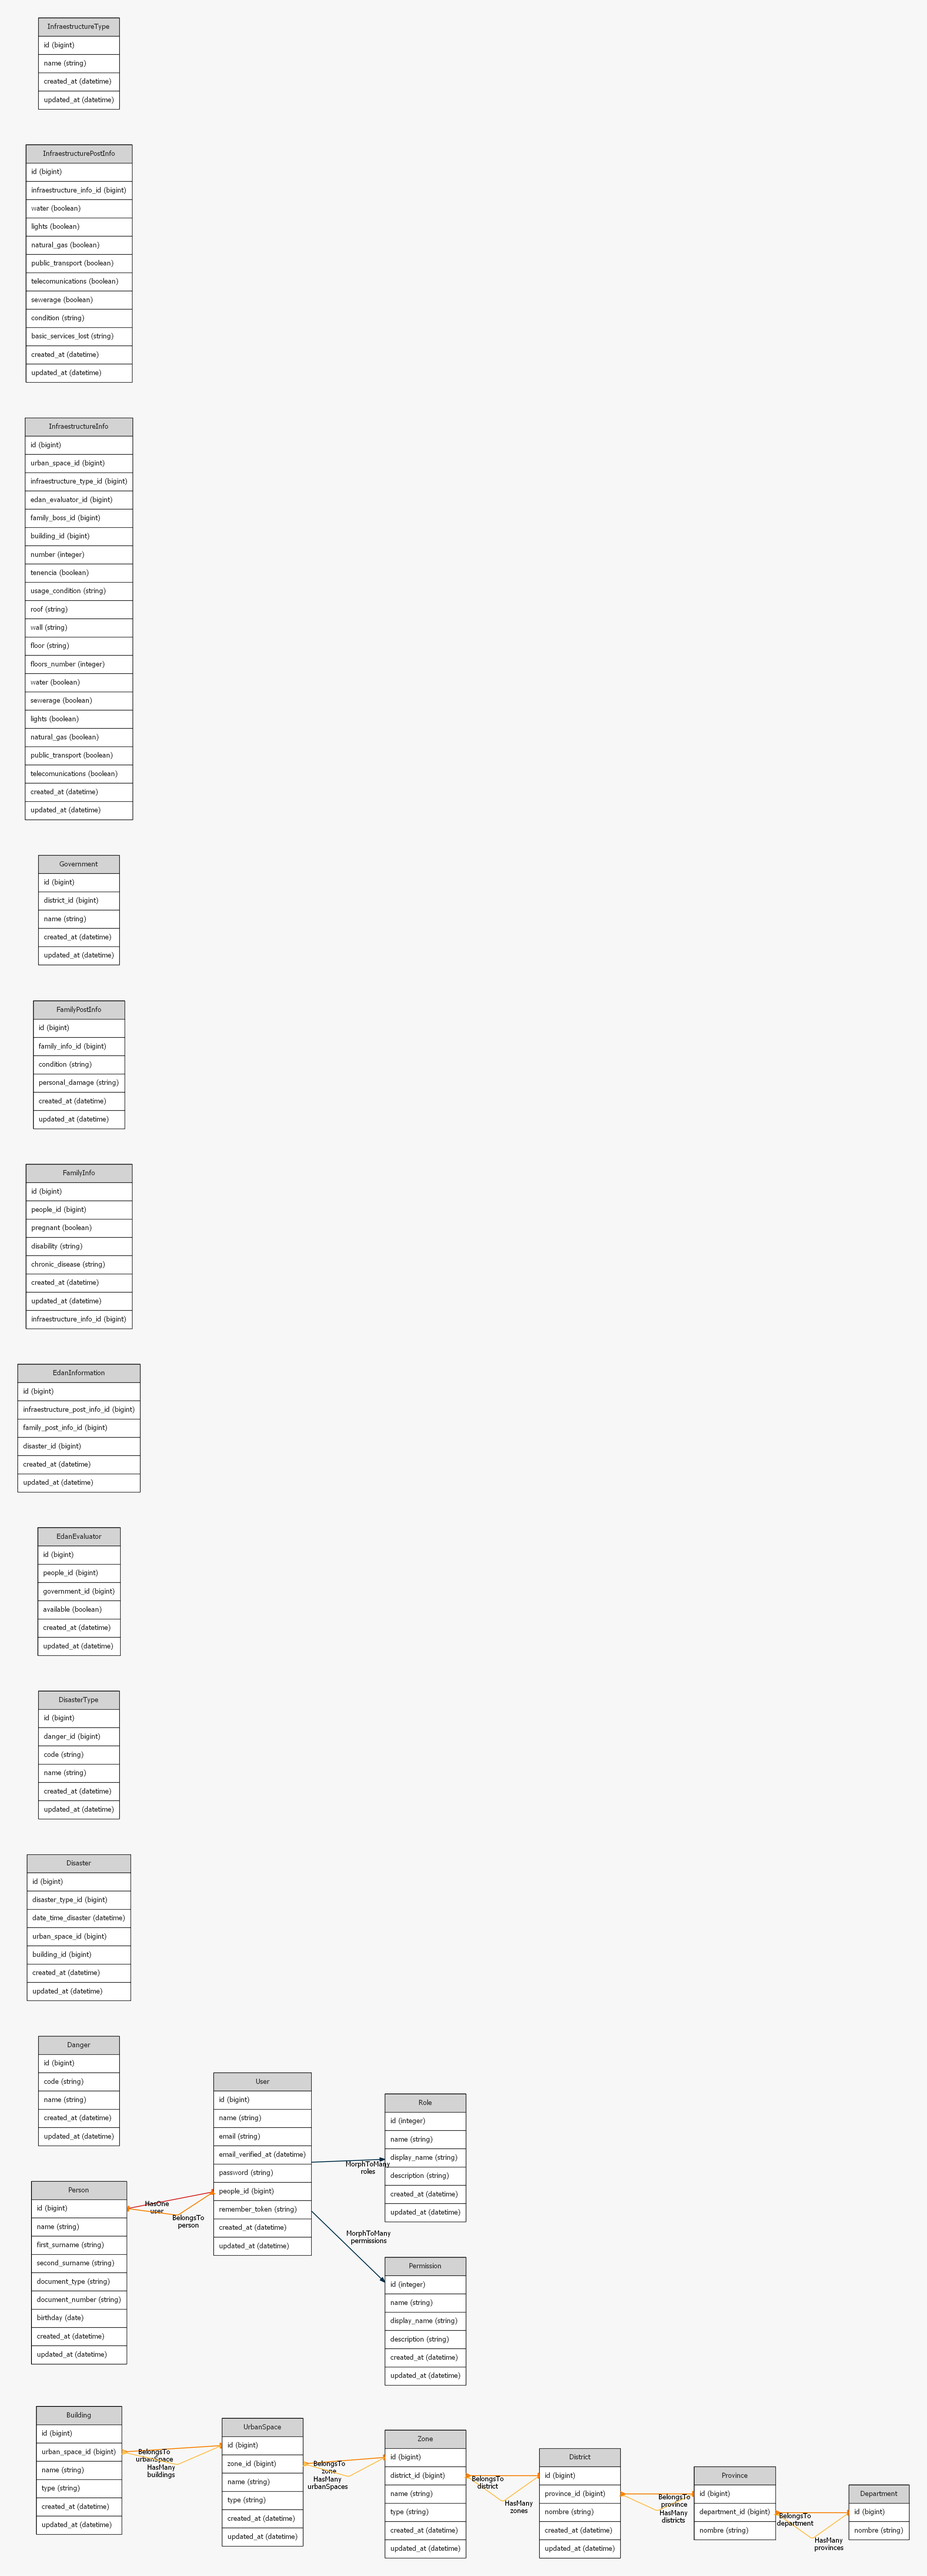
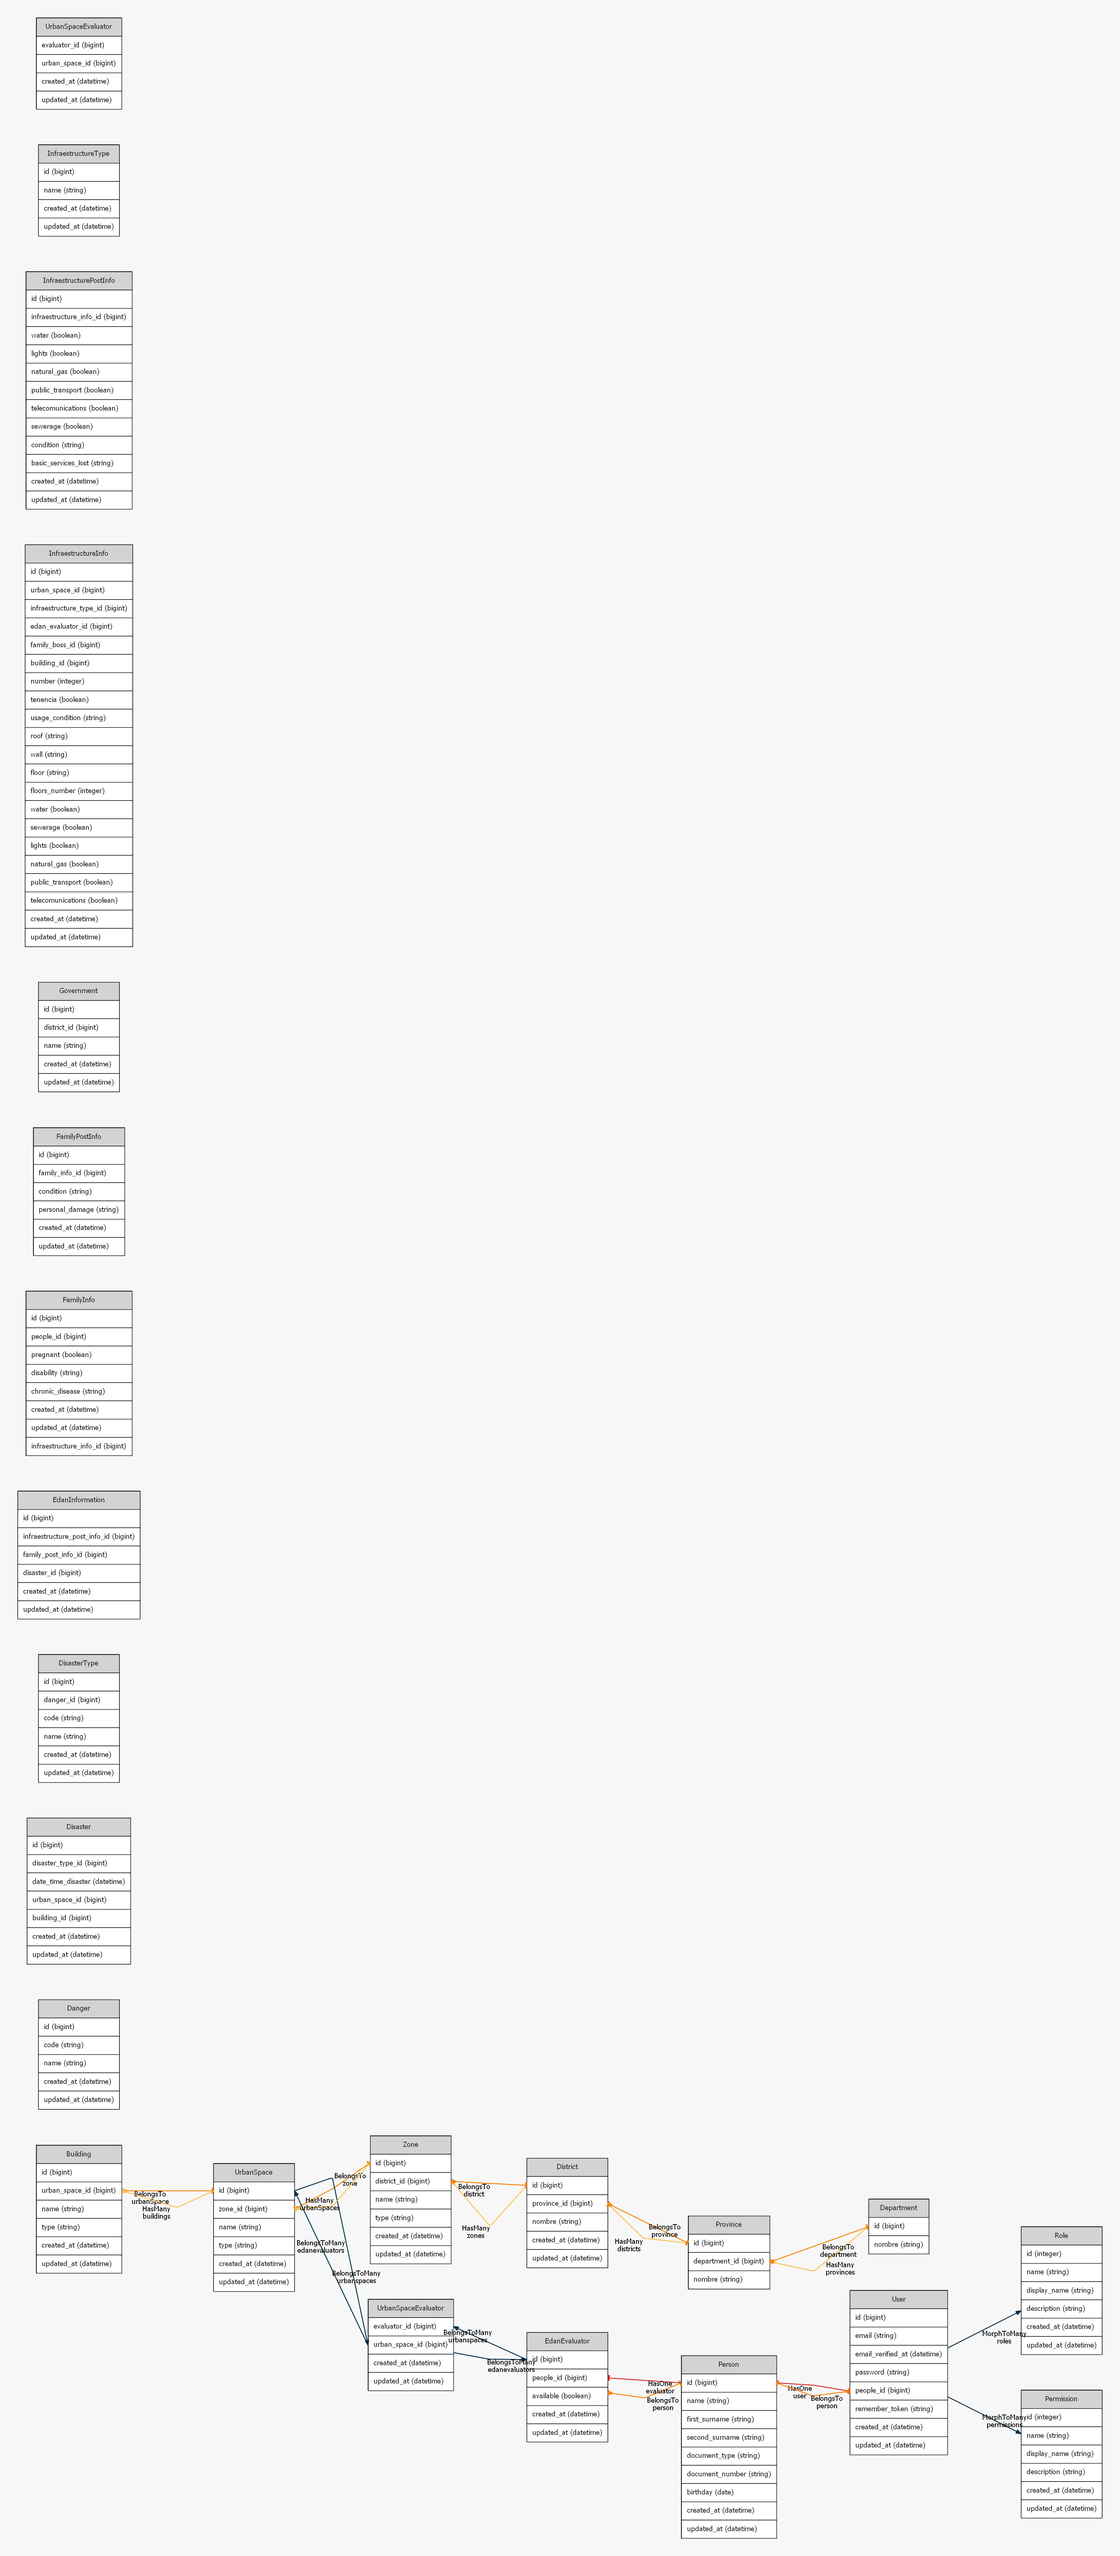
evaluators management

diff --git a/resources/views/admin/evaluators/edit.blade.php b/resources/views/admin/evaluators/edit.blade.php
@@ -1,0 +1,167 @@
+@extends('admin.layout')
+@section('admin')
+    <div class="col-md-12">
+        <div class="card">
+            <div class="card-header">
+                Editar espacios urbanos del evaluador: {{$person->name}} {{$person->first_surname}} {{$person->second_surname}}
+            </div>
+            <div class="card-body">
+                <div class="row">
+                    <h5 class="col-md-8">Selecciona la ubicación del evaluador que desea asignarle</h5>
+                    <div class="col-md-4">
+                        <a href="{{route('admin.evaluators.index')}}" class="btn btn-secondary float-right btn-sm">Atras</a>
+                    </div>
+
+
+                </div>
+                <form action="{{route('admin.evaluators.update',$person)}}" method="post">
+                    @csrf
+                    <div class="row">
+                        <div class="form-group col-md-2" align="center">
+                            <label for="department">Departamento</label>
+                            <select id="department" name="department" class="form-control" required></select>
+                            <small class="text-danger">{{$errors->first('department')}}</small>
+                        </div>
+                        <div class="form-group col-md-2" align="center">
+                            <label for="province">Provincia</label>
+                            <select id="province" name="province" class="form-control" disabled required></select>
+                            <small class="text-danger">{{$errors->first('province')}}</small>
+                        </div>
+                        <div class="form-group col-md-2" align="center">
+                            <label for="district_id">Distrito</label>
+                            <select id="district_id" name="district_id" class="form-control" disabled required></select>
+                            <small class="text-danger">{{$errors->first('district_id')}}</small>
+                        </div>
+                        <div class="form-group col-md-2" align="center">
+                            <label for="zone">Zona</label>
+                            <select id="zone" name="zone" class="form-control" disabled required></select>
+                            <small class="text-danger">{{$errors->first('zone')}}</small>
+                        </div>
+                        <div class="form-group col-md-2" align="center">
+                            <label for="urbanspace">Espacio urbano</label>
+                            <select id="urbanspace" name="urbanspace" class="form-control" disabled required></select>
+                            <small class="text-danger">{{$errors->first('urbanspace')}}</small>
+                        </div>
+                        <div class="form-group col-md-2"  align="center">
+                            <label>&nbsp;</label>
+                            <button type="submit" class="form-control btn btn-primary btn-block">Asignar</button>
+                        </div>
+                    </div>
+                </form>
+
+                <hr>
+                <h5>Espacios urbanos asignados</h5>
+                <table class="table table-bordered" id="evaluators_table" style="width: 100%">
+                    <thead>
+                    <tr>
+                        <th>Distrito</th>
+                        <th>Zona</th>
+                        <th>Espacio urbano</th>
+                        <th style="width: 1%">Acciones</th>
+                    </tr>
+                    </thead>
+                    <tbody>
+                    @foreach($person->evaluator->urbanspaces as $urbanspace)
+                        <tr>
+                            <td>{{$urbanspace->zone->district->nombre}}</td>
+                            <td>{{$urbanspace->zone->type}} {{$urbanspace->zone->name}}</td>
+                            <td>{{$urbanspace->type}} {{$urbanspace->name}}</td>
+                            <td>
+                                <form action="{{route('admin.evaluators.delete',['person'=>$person, 'urbanspace'=> $urbanspace])}}" method="post">
+                                    <input type="hidden" name="_method" value="DELETE">
+                                    <input type="hidden" name="_token" value="{{ csrf_token() }}">
+                                    @csrf
+                                    <input type="submit" class="btn btn-danger btn-sm" value="Eliminar">
+                                </form>
+                        </tr>
+                        @endforeach
+                    </tbody>
+                </table>
+            </div>
+        </div>
+    </div>
+@endsection
+@section('style')
+    <link href="{{asset('css/jquery.dataTables.min.css') }}" rel="stylesheet" type="text/css" />
+    <link href="{{asset('css/responsive.dataTables.min.css') }}" rel="stylesheet" type="text/css" />
+    <link href="{{asset('css/dataTables.bootstrap4.min.css') }}" rel="stylesheet" type="text/css" />
+    <style>
+        #evaluators_table{
+            display:none
+        }
+    </style>
+@endsection
+
+@section('script')
+    <script src="{{asset('js/jquery.dataTables.min.js') }}" ></script>
+    <script src="{{asset('js/dataTables.responsive.min.js') }}" ></script>
+    <script src="{{asset('js/dataTables.bootstrap4.min.js') }}" ></script>
+    <script>
+        $(document).ready(function() {
+            $('#evaluators_table').fadeIn();
+            $('#evaluators_table').DataTable({
+                dom: 'lBfrtip',
+                responsive: true,
+            });
+        } );
+    </script>
+    <script>
+        $(document).ready(function(){
+            $.get('/ajax-departments/', function(data){
+                $('#department').append('<option value="0" disabled selected>Seleccione Departamento...</option>');
+                $.each(data, function(index, o){
+                    $('#department').append('<option value="'+o.id+'">'+o.nombre+'</option>');
+                });
+            });
+        });
+        $('#department').change(function(e){
+            var id=e.target.value;
+            $('#province').prop('disabled', false);
+            $('#province').prop('required', true);
+            $('#district_id').prop('disabled', true);
+            $.get('/ajax-provinces/'+id, function(data){
+                $('#province').empty();$('#district_id').empty();
+                $('#province').append('<option value="0" disabled selected>Seleccione Provincia...</option>');
+                $.each(data, function(index, o){
+                    $('#province').append('<option value="'+o.id+'">'+o.nombre+'</option>');
+                });
+            });
+        });
+        $('#province').change(function(e){
+            var id=e.target.value;
+            $('#district_id').prop('disabled', false);
+            $('#district_id').prop('required', true);
+            $.get('/ajax-districts/'+id, function(data){
+                $('#district_id').empty();
+                $('#district_id').append('<option value="0" disabled selected>Seleccione Distrito...</option>');
+                $.each(data, function(index, o){
+                    $('#district_id').append('<option value="'+o.id+'">'+o.nombre+'</option>');
+                });
+            });
+        });
+        $('#district_id').change(function(e){
+            var id=e.target.value;
+            $('#zone').prop('disabled', false);
+            $('#zone').prop('required', true);
+            $.get('/ajax-zones/'+id, function(data){
+                $('#zone').empty();
+                $('#zone').append('<option value="0" disabled selected>Seleccione zona...</option>');
+                $.each(data, function(index, o){
+                    $('#zone').append('<option value="'+o.id+'">'+o.type+' '+o.name+'</option>');
+                });
+            });
+        });
+        $('#zone').change(function(e){
+            var id=e.target.value;
+            $('#urbanspace').prop('disabled', false);
+            $('#urbanspace').prop('required', true);
+            $.get('/ajax-urbanspace/'+id, function(data){
+                $('#urbanspace').empty();
+                $('#urbanspace').append('<option value="0" disabled selected>Seleccione espacio urbano...</option>');
+                $.each(data, function(index, o){
+                    $('#urbanspace').append('<option value="'+o.id+'">'+o.type+' '+o.name+'</option>');
+                });
+            });
+        });
+    </script>
+@endsection

diff --git a/app/Http/Controllers/AdminController.php b/app/Http/Controllers/AdminController.php
@@ -3,6 +3,7 @@
 namespace App\Http\Controllers;
 
 use App\Building;
+use App\EdanEvaluator;
 use Illuminate\Http\Request;
 use Illuminate\Support\Facades\Hash;
 use Illuminate\Support\Facades\Redirect;
@@ -15,6 +16,7 @@ use App\Province;
 use App\District;
 use App\Zone;
 use App\UrbanSpace;
+use App\UrbanSpaceEvaluator;
 use DB;
 class AdminController extends Controller
 {
@@ -218,7 +220,26 @@ class AdminController extends Controller
         return Redirect::action('AdminController@buildings',[$urbanspace])->with('success',"Se ha registrado una nueva construcción en este espacio urbano");
     }
     public function evaluators(){
-        $evaluators = User::whereRoleIs('evaluador')->get();
-        return view('admin.evaluators.index',compact(['evaluators']));
+        $users = User::whereRoleIs('evaluador')->get();
+        return view('admin.evaluators.index',compact(['users']));
+    }
+    public function editEvaluator(Person $person){
+        return view('admin.evaluators.edit',compact(['person']));
+    }
+    public function updateEvaluator(Person $person, Request $request){
+        $evaluator = EdanEvaluator::firstOrCreate(
+            ['people_id'=>$person->id],
+            ['available'=>1]
+            );
+        $urban_space_id = $request->get('urbanspace');
+        $evaluator->urbanspaces()->attach($urban_space_id);
+        return Redirect::action('AdminController@editEvaluator',[$person])->with('success','Se ha asignado un nuevo espacio urbano al evaluador');
+    }
+    public function deleteEvaluator(Person $person, $urbanspace, Request $request){
+        $evaluator= EdanEvaluator::where('people_id',$person->id)->first();
+        $urbanSpace = UrbanSpace::find($urbanspace);
+        //$urbanSpace->evaluators()->detach($evaluator->id);
+        $urbanSpaceEvaluator = UrbanSpaceEvaluator::where('evaluator_id',$evaluator->id)->where('urban_space_id',$urbanSpace->id)->delete();
+        return Redirect::action('AdminController@editEvaluator',[$person])->with('warning','Se ha eliminado el espacio urbano asignado al evaluador');;
     }
 }

diff --git a/resources/views/admin/evaluators/index.blade.php b/resources/views/admin/evaluators/index.blade.php
@@ -16,13 +16,25 @@
                     </tr>
                     </thead>
                     <tbody>
-                    @foreach($evaluators as $evaluator)
+                    @foreach($users as $user)
                         <tr>
-                            <td>{{$evaluator->person->name}} {{$evaluator->person->first_surname}} {{$evaluator->person->second_surname}}</td>
-                            <td></td>
-                            <td></td>
+                            <td>{{$user->person->name}} {{$user->person->first_surname}} {{$user->person->second_surname}}</td>
                             <td>
-                                <a href="" class="btn btn-warning btn-sm">Editar</a>
+                                @if(!empty($user->person->evaluator))
+                                @foreach($user->person->evaluator->urbanspaces as $urbanspace)
+                                        <br>* {{$urbanspace->zone->district->nombre}}, {{$urbanspace->zone->type}} {{$urbanspace->zone->name}}, {{$urbanspace->type}} {{$urbanspace->name}}
+                                    @endforeach
+                                    @endif
+                            </td>
+                            <td>
+                                @if(!empty($user->person->evaluator))
+                                    {{($user->person->evaluator->available == 1)? 'DISPONIBLE': 'NO DISPONIBLE'}}
+                                @else
+                                    SIN ASIGNAR
+                                @endif
+                            </td>
+                            <td>
+                                <a href="{{route('admin.evaluators.edit',$user->person)}}" class="btn btn-warning btn-sm">Asignar</a>
                             </td>
                         </tr>
                     @endforeach

diff --git a/routes/web.php b/routes/web.php
@@ -46,6 +46,9 @@ Route::put('/administration/location/update/zone/{zone}','AdminController@update
 Route::put('/administration/location/update/urbanspace/{urbanspace}','AdminController@updateUrbanSpace')->name('admin.location.update.urbanspace');
 
 Route::get('/administration/evaluators','AdminController@evaluators')->name('admin.evaluators.index');
+Route::get('/administration/evaluators/{person}/edit','AdminController@editEvaluator')->name('admin.evaluators.edit');
+Route::post('/administration/evaluators/{person}/update','AdminController@updateEvaluator')->name('admin.evaluators.update');
+Route::delete('/administration/evaluators/{person}/delete/{urbanspace}','AdminController@deleteEvaluator')->name('admin.evaluators.delete');
 //AJAX UBIGEO
 Route::get('/ajax-departments/',function(){
     return Response::json(App\Department::all());
@@ -55,4 +58,10 @@ Route::get('/ajax-provinces/{id}',function($id){
 });
 Route::get('/ajax-districts/{id}',function($id){
     return Response::json(App\District::where('province_id', $id)->get());
+});
+Route::get('/ajax-zones/{id}', function ($id){
+   return Response::json(App\Zone::where('district_id',$id)->get());
+});
+Route::get('/ajax-urbanspace/{id}',function ($id){
+    return Response::json(App\UrbanSpace::where('zone_id',$id)->get());
 });

diff --git a/app/UrbanSpace.php b/app/UrbanSpace.php
@@ -7,10 +7,17 @@ use Illuminate\Database\Eloquent\Model;
 class UrbanSpace extends Model
 {
     //
+    protected $fillable = [
+        'evaluator_id',
+        'urban_space_id',
+    ];
     public function zone(){
         return $this->belongsTo(Zone::class);
     }
     public function buildings(){
         return $this->hasMany(Building::class);
+    }
+    public function evaluators(){
+        return $this->belongsToMany(EdanEvaluator::class,'urban_spaces_evaluators','urban_space_id','evaluator_id')->using(UrbanSpaceEvaluator::class)->withTimestamps();
     }
 }

diff --git a/app/EdanEvaluator.php b/app/EdanEvaluator.php
@@ -8,7 +8,13 @@ class EdanEvaluator extends Model
 {
     //
     protected $table = 'edan_evaluators';
+    protected $fillable = [
+        'people_id','available'
+    ];
     public function person(){
         return $this->belongsTo(Person::class);
+    }
+    public function urbanspaces(){
+        return $this->belongsToMany(UrbanSpace::class,'urban_spaces_evaluators','evaluator_id','urban_space_id')->using(UrbanSpaceEvaluator::class)->withTimestamps();
     }
 }

diff --git a/config/app.php b/config/app.php
@@ -176,7 +176,7 @@ return [
         App\Providers\RouteServiceProvider::class,
         Laratrust\LaratrustServiceProvider::class,
         //TO SHOW MODEL DIAGRAMS:
-        // BeyondCode\ErdGenerator\ErdGeneratorServiceProvider::class,
+        //BeyondCode\ErdGenerator\ErdGeneratorServiceProvider::class,
         //TO GENERATE SEEDS FROM DATABASE:
         Orangehill\Iseed\IseedServiceProvider::class,
     ],

diff --git a/app/UrbanSpaceEvaluator.php b/app/UrbanSpaceEvaluator.php
@@ -1,0 +1,15 @@
+<?php
+
+namespace App;
+
+use Illuminate\Database\Eloquent\Relations\Pivot;
+
+class UrbanSpaceEvaluator extends Pivot
+{
+    //
+    protected $table = 'urban_spaces_evaluators';
+    protected $fillable = [
+        'evaluator_id',
+        'urban_space_id',
+    ];
+}

diff --git a/app/Person.php b/app/Person.php
@@ -19,7 +19,7 @@ class Person extends Model
     public function user(){
         return $this->hasOne(User::class, 'people_id');
     }
-    public function edanEvaluator(){
+    public function evaluator(){
         return $this->hasOne(EdanEvaluator::class, 'people_id');
     }
 }
